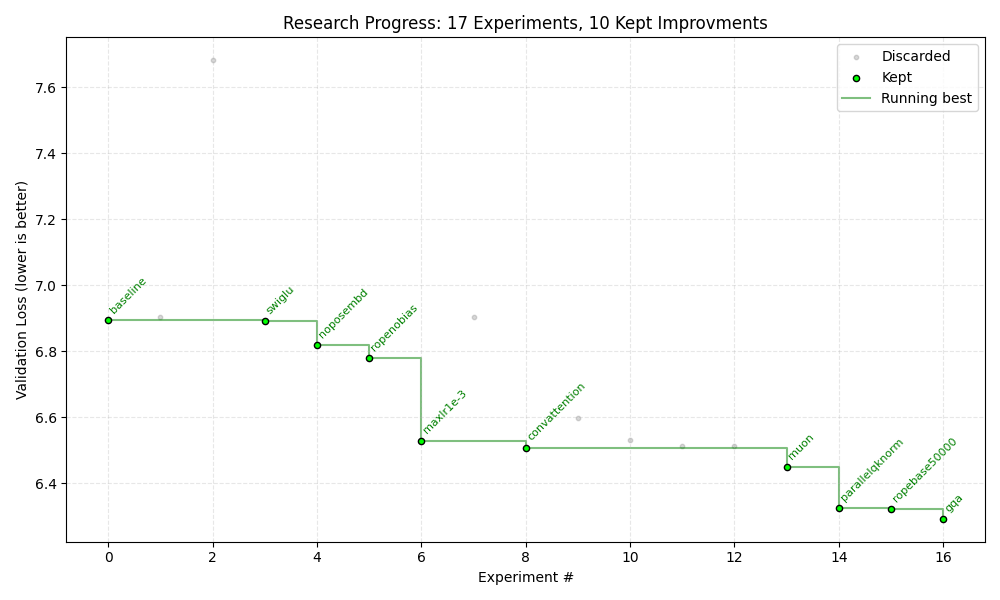
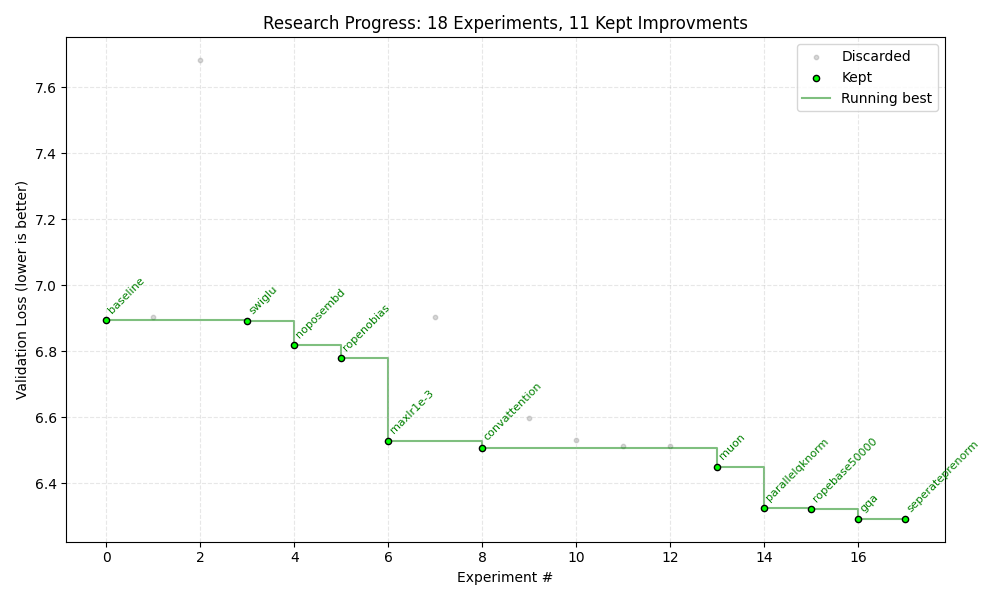
seperateprenorm

diff --git a/model.py b/model.py
@@ -4,17 +4,19 @@ from dataclasses import dataclass
 import torch.nn.functional as F
 import tiktoken
 
+
 def apply_rotary_pos_emb(q, k, cos, sin):
     cos = cos.unsqueeze(0).unsqueeze(2)
     sin = sin.unsqueeze(0).unsqueeze(2)
-    
+
     def rotate_half(x):
-        x1, x2 = x[..., :x.shape[-1] // 2], x[..., x.shape[-1] // 2:]
+        x1, x2 = x[..., : x.shape[-1] // 2], x[..., x.shape[-1] // 2 :]
         return torch.cat((-x2, x1), dim=-1)
-        
+
     q_embed = (q * cos) + (rotate_half(q) * sin)
     k_embed = (k * cos) + (rotate_half(k) * sin)
     return q_embed, k_embed
+
 
 class RotaryEmbedding(nn.Module):
     def __init__(self, dim, max_seq_len=8192, base=50000.0):
@@ -29,6 +31,7 @@ class RotaryEmbedding(nn.Module):
         emb = torch.cat((freqs, freqs), dim=-1)
         return emb.cos(), emb.sin()
 
+
 class SwiGLU(nn.Module):
     def __init__(self, input_dim, output_dim, beta=1.0):
         super().__init__()
@@ -40,16 +43,25 @@ class SwiGLU(nn.Module):
         gate = gate_raw * torch.sigmoid(self.beta * gate_raw)
         return gate * value
 
+
 class CausalSelfAttention(nn.Module):
     def __init__(self, config):
         super().__init__()
-        assert config.n_head % config.n_kv_head == 0, f"n_head ({config.n_head}) must be divisible by n_kv_head ({config.n_kv_head})"
+        assert config.n_head % config.n_kv_head == 0, (
+            f"n_head ({config.n_head}) must be divisible by n_kv_head ({config.n_kv_head})"
+        )
         self.n_head = config.n_head
         self.n_kv_head = config.n_kv_head
         self.n_groups = self.n_head // self.n_kv_head
         self.head_dim = config.n_embd // config.n_head
         self.kernel_size = 3
-        self.l_conv = nn.Conv1d(config.n_embd, config.n_embd, kernel_size=self.kernel_size, groups=config.n_embd, bias=False)
+        self.l_conv = nn.Conv1d(
+            config.n_embd,
+            config.n_embd,
+            kernel_size=self.kernel_size,
+            groups=config.n_embd,
+            bias=False,
+        )
         self.q_dim = config.n_embd
         self.kv_dim = self.n_kv_head * self.head_dim
         self.c_attn = nn.Linear(config.n_embd, self.q_dim + 2 * self.kv_dim, bias=False)
@@ -82,6 +94,7 @@ class CausalSelfAttention(nn.Module):
         y = self.c_proj(y)
         return y
 
+
 class MLP(nn.Module):
     def __init__(self, config):
         super().__init__()
@@ -93,32 +106,40 @@ class MLP(nn.Module):
         x = self.swiglu(x)
         x = self.c_proj(x)
         return x
-    
+
+
 class Block(nn.Module):
     def __init__(self, config):
         super().__init__()
-        self.ln = nn.LayerNorm(config.n_embd)
+        self.ln1 = nn.LayerNorm(config.n_embd)
+        self.ln2 = nn.LayerNorm(config.n_embd)
         self.attn = CausalSelfAttention(config)
         self.mlp = MLP(config)
 
     def forward(self, x):
-        norm_x = self.ln(x)
-        x = x + self.attn(norm_x)
-        x = x + self.mlp(norm_x)
+        x = x + self.attn(self.ln1(x))
+        x = x + self.mlp(self.ln2(x))
         return x
+
 
 @dataclass
 class LLMConfig:
     depth: int = 12
     block_size: int = 1024
     vocab_size: int = 50257
-    
+
     @property
-    def n_layer(self): return self.depth
+    def n_layer(self):
+        return self.depth
+
     @property
-    def n_head(self): return self.depth
+    def n_head(self):
+        return self.depth
+
     @property
-    def n_embd(self): return self.depth * 64
+    def n_embd(self):
+        return self.depth * 64
+
     @property
     def n_kv_head(self):
         if self.depth % 3 == 0:
@@ -126,15 +147,18 @@ class LLMConfig:
         else:
             return self.depth // 2
 
+
 class LLM(nn.Module):
     def __init__(self, config):
         super().__init__()
         self.config = config
-        self.transformer = nn.ModuleDict(dict(
-            wte = nn.Embedding(config.vocab_size, config.n_embd),
-            h = nn.ModuleList([Block(config) for _ in range(config.n_layer)]),
-            ln_f = nn.LayerNorm(config.n_embd)
-        ))
+        self.transformer = nn.ModuleDict(
+            dict(
+                wte=nn.Embedding(config.vocab_size, config.n_embd),
+                h=nn.ModuleList([Block(config) for _ in range(config.n_layer)]),
+                ln_f=nn.LayerNorm(config.n_embd),
+            )
+        )
         self.lm_head = nn.Linear(config.n_embd, config.vocab_size, bias=False)
         self.transformer.wte.weight = self.lm_head.weight
         self.apply(self._init_weights)
@@ -142,7 +166,7 @@ class LLM(nn.Module):
     def _init_weights(self, module):
         std = 0.02
         if isinstance(module, nn.Linear):
-            if hasattr(module, 'GPT_SCALE_INIT'):
+            if hasattr(module, "GPT_SCALE_INIT"):
                 std *= (2 * self.config.n_layer) ** -0.5
             torch.nn.init.normal_(module.weight, mean=0.0, std=std)
             if module.bias is not None:
@@ -150,7 +174,9 @@ class LLM(nn.Module):
 
     def forward(self, idx, targets=None):
         B, T = idx.size()
-        assert T <= self.config.block_size, f"Cannot forward sequence of length {T}, block size is only {self.config.block_size}."
+        assert T <= self.config.block_size, (
+            f"Cannot forward sequence of length {T}, block size is only {self.config.block_size}."
+        )
         tok_emb = self.transformer.wte(idx)
         x = tok_emb
         for block in self.transformer.h:
@@ -159,14 +185,20 @@ class LLM(nn.Module):
         logits = self.lm_head(x)
         loss = None
         if targets is not None:
-            loss = F.cross_entropy(logits.view(-1, logits.size(-1)), targets.view(-1), ignore_index=-100)
+            loss = F.cross_entropy(
+                logits.view(-1, logits.size(-1)), targets.view(-1), ignore_index=-100
+            )
         return logits, loss
-    
+
     def generate(self, prompt, max_new_tokens=20, top_k=50, temperature=1.0, enc=None):
         if enc is None:
-            enc = tiktoken.get_encoding('gpt2')
+            enc = tiktoken.get_encoding("gpt2")
         tokens = enc.encode(prompt)
-        x = torch.tensor(tokens, dtype=torch.long).unsqueeze(0).to(next(self.parameters()).device)
+        x = (
+            torch.tensor(tokens, dtype=torch.long)
+            .unsqueeze(0)
+            .to(next(self.parameters()).device)
+        )
         self.eval()
         with torch.no_grad():
             while x.size(1) < len(tokens) + max_new_tokens:
@@ -178,12 +210,23 @@ class LLM(nn.Module):
                 xcol = torch.gather(topk_indices, -1, ix)
                 x = torch.cat((x, xcol), dim=1)
         return enc.decode(x[0].tolist())
-    
+
     def configure_optimizers(self, weight_decay, learning_rate, device):
         param_dict = {pn: p for pn, p in self.named_parameters() if p.requires_grad}
-        muon_params = [p for n, p in param_dict.items() if p.ndim == 2 and "wte" not in n and "lm_head" not in n]
+        muon_params = [
+            p
+            for n, p in param_dict.items()
+            if p.ndim == 2 and "wte" not in n and "lm_head" not in n
+        ]
         muon_set = set(muon_params)
         adamw_params = [p for p in param_dict.values() if p not in muon_set]
-        opt1 = torch.optim.Muon(muon_params, lr=learning_rate * 10, momentum=0.95, nesterov=True)
-        opt2 = torch.optim.AdamW(adamw_params, lr=learning_rate, weight_decay=weight_decay, fused=('cuda' in device))
+        opt1 = torch.optim.Muon(
+            muon_params, lr=learning_rate * 10, momentum=0.95, nesterov=True
+        )
+        opt2 = torch.optim.AdamW(
+            adamw_params,
+            lr=learning_rate,
+            weight_decay=weight_decay,
+            fused=("cuda" in device),
+        )
         return [opt1, opt2]
